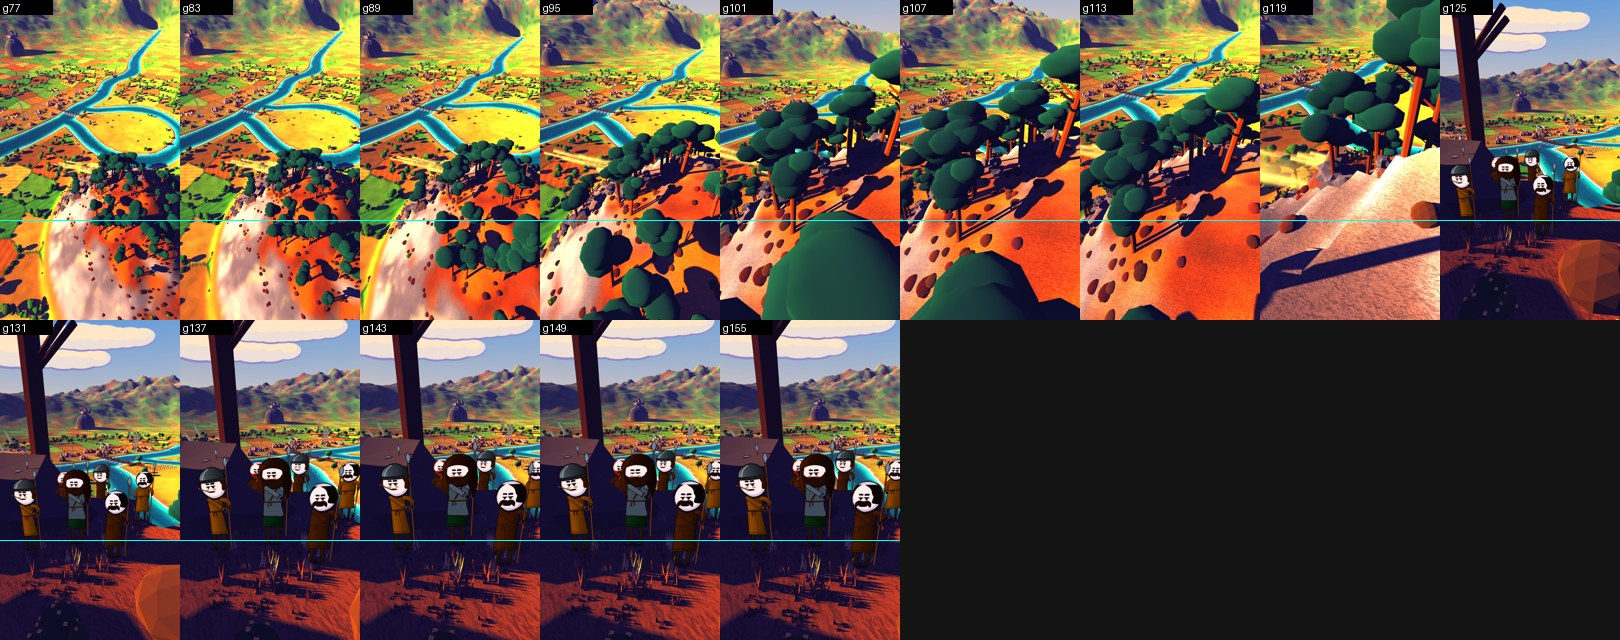
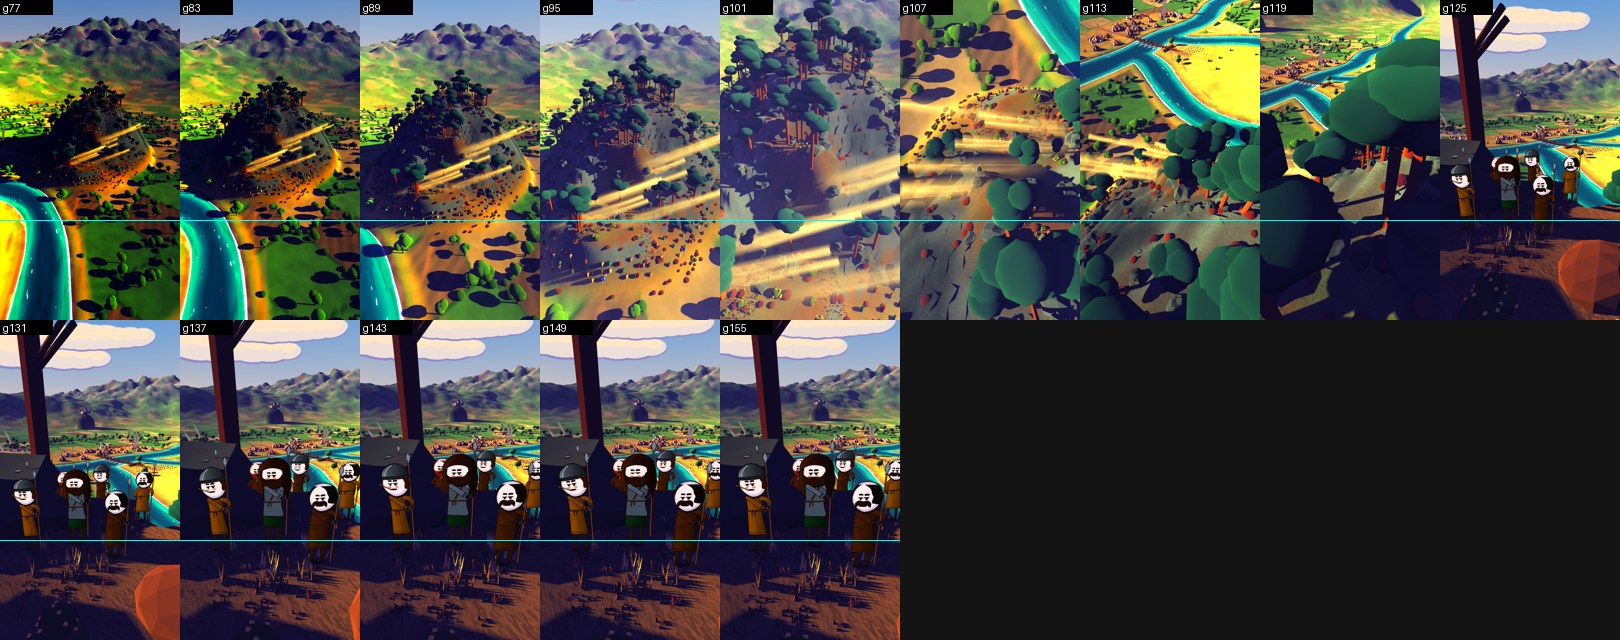
film21 A2: delivered with new P_A and palette (take.mkv, meta, cues, QA)

diff --git a/film/v3/film21/sA2/QA.md b/film/v3/film21/sA2/QA.md
@@ -1,7 +1,7 @@
-# QA A2 (BIGZOOM 1, second half), g 77-159 (3 handle frames 77-79), D6 in at P_A, cut out at g159
-World `K.build_world(['valley_wide','hill_over'], fg=False)`, 32 samples, VIVID grade via `cam_path`. Cast: Wallace centre (wallace_fold_spear), 6 Scots (fold_spear / stand_still / chew_grass), `K.with_rim` on every pose, contact shadows on.
-- Camera: g80 = `K.POSES['P_A']` exactly (g77-79 extrapolate the A1 move back toward the valley_wide camera, ~3 m/frame). Swoop over the crag, through pine branches and a light shaft (g100-120), medium shot of the Scots line from behind-side at g125 (bridge with knights far below at the right), then the 15 f x1.4 push onto the grass-chewer (g125-140: "อะไรเลยสักอย่าง" = g125) and a slow drift to g159.
-- Numbers: qa_stats saturation 0.580, brightness 94.9 (target >= 0.47, 85-110); qa_stats2 vivid 69.1 %; rhythm median 15.32 / p90 37.76 (target >= 4 / >= 12); qa_auto PASS (soft frame g122 = pine-branch motion streak, 1 frame).
-- Mouths: nobody speaks; the chewer has the stalk, closed mouth. Heads y 540-880 at g125-159; no head below y 880.
-- Known notes (non-blocking, tell me if the director wants them fixed, ~35 min re-render of g125-159): at g159 the right-hand Scot (s4) is cut about 30 % by the right frame edge after the push; the Scots are drawn three-quarter from the front (cards are front-facing puppets), not from behind.
-- Rendering died once (container restart at g84) and was resumed from the last frame; frames are identical to an uninterrupted run (same seed).
+# QA A2 (BIGZOOM 1, second half), g 77-159 (3 handle frames 77-79), D6 in at the NEW P_A, cut out at g159
+World `K.build_world(['valley_wide','hill_over'], fg=False, shafts=True, scots_wide=True)` from film21/main 08c9d4b (palette fix), 32 samples, default VIVID via `cam_path` (P_A (1.3,1.2,0.85) easing into hill_over). Cast: Wallace centre (wallace_fold_spear), 6 Scots (fold_spear / stand_still / chew_grass), `K.with_rim` poses, contact shadows on.
+- Camera: g80 = `K.POSES['P_A']` = (40,10,95)->(150,140,20) exactly; g77-79 extrapolate the A1 move back toward P_HOOK (~3 m/frame). Climb the crag NE past pines and light shafts (g95-115, the Scots line already visible as a tiny group mid-slope at g103), arc over the summit, dive to a medium shot behind/beside the Scots line (g125, bridge and river far below), then the 15 f x1.4 push onto the grass-chewer (g125-140 = "อะไรเลยสักอย่าง"), slow drift to g159.
+- Numbers (default grade, no post pass, per director policy): qa_stats saturation 0.524, brightness 86.5; rhythm median 19.59 / p90 41.10 (target >= 4 / >= 12). qa_auto: heads OK, magenta 0 %, no frozen frames; its only FAIL is "suspected blur" on g98-108 = FALSE POSITIVE: the frames are crisp (no depth of field anywhere) but show smooth slate rock and soft light shafts, so their Laplacian variance is under 60 % of the median that the detailed Scots frames set. Checked g103 at full size.
+- Mouths: nobody speaks (chewer has the stalk, closed mouth).
+- Non-blocking notes: (1) at g159 the right-hand Scot may touch the right frame edge after the push (see phone_sheet); (2) the Scots are drawn three-quarter from the front (cards are front-facing puppets), not from behind; (3) the first render of this segment (old P_A at (290,205,170), old palette) was discarded after the director's P_A move.
+- The render process died once (container restart) and was resumed from its last frame; same seed, identical frames.

diff --git a/film/v3/film21/sA2/QA_AUTO.md b/film/v3/film21/sA2/QA_AUTO.md
@@ -1,7 +1,8 @@
-# QA_AUTO PASS  (take.mkv, 83 frames, 30.00 fps, g 77-159)
+# QA_AUTO FAIL  (take.mkv, 83 frames, 30.00 fps, g 77-159)
 
+## FAIL
+- suspected blur on 11 frames, e.g. g [98, 99, 100, 101, 102, 103, 104, 105, 106, 107, 108]
 ## Notes
-- soft frames (check by eye; motion streak allowed 1-3 frames): g [122]
 - magenta share 0.0 %
 
 Phone sheet: phone_sheet.jpg (cyan line = caption band y 880). Judge legibility on it.
